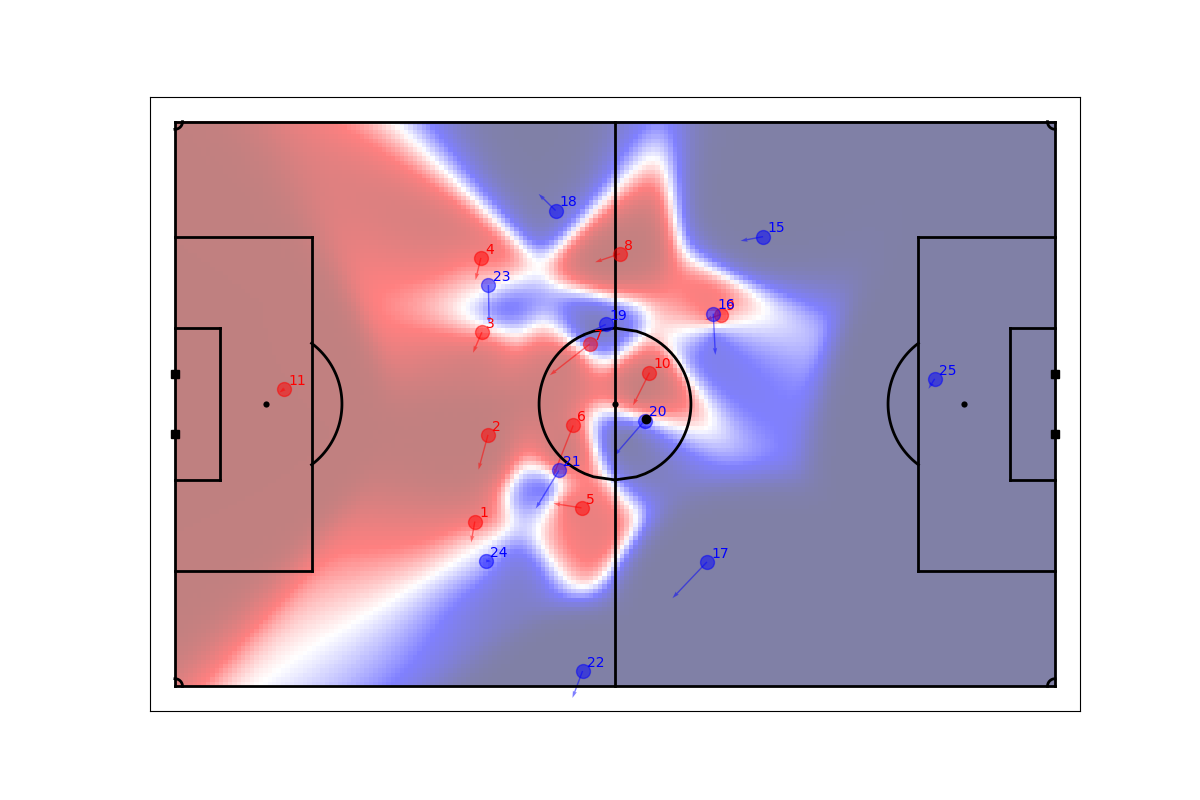
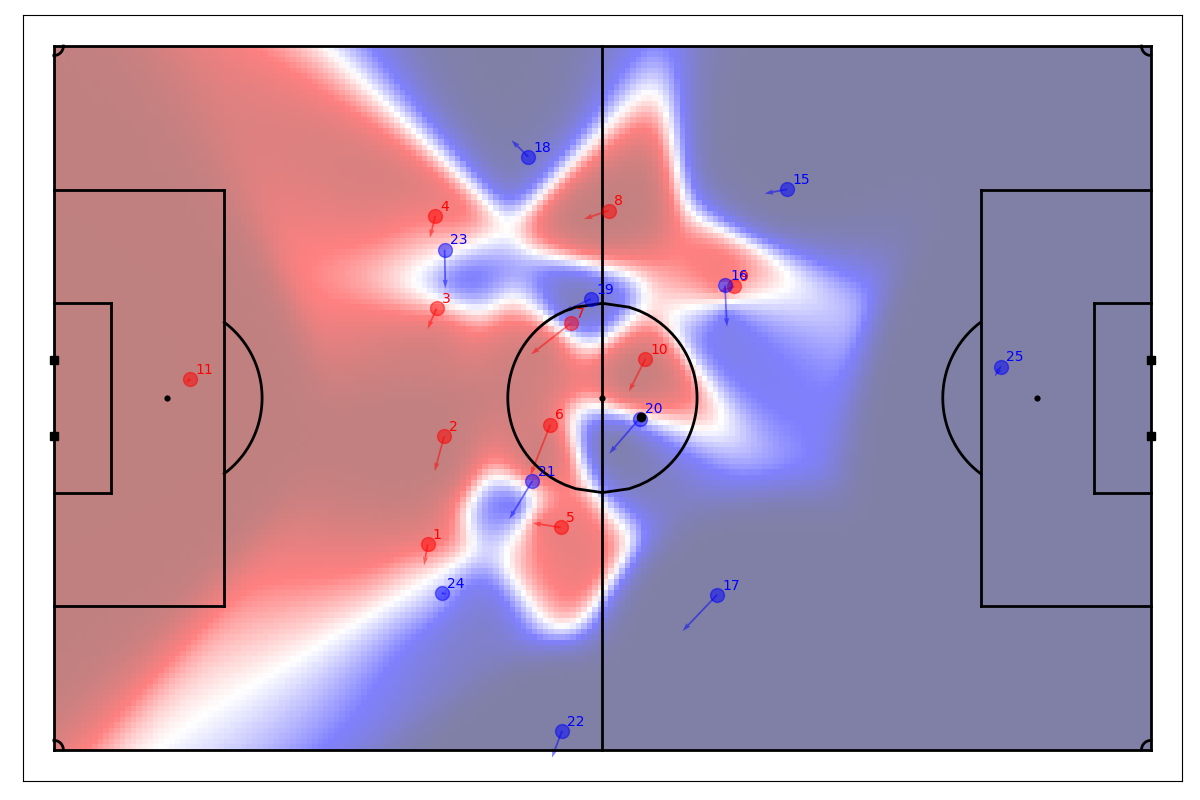
Updated readme and added tight_layout()

diff --git a/Main.py b/Main.py
@@ -49,6 +49,7 @@ fig,ax = vis.plot_pitch( field_color='white', field_dimen = field_dimen)
 vis.plot_frame( data_home.loc[frame], data_away.loc[frame] , figax=(fig,ax) , PlayerAlpha=0.5, include_player_velocities=include_player_velocities, annotate=True)
 cmap = 'seismic'
 ax.imshow( np.flipud(PPCFa) , extent=(-field_dimen[0]/2., field_dimen[0]/2., -field_dimen[1]/2., field_dimen[1]/2.) ,cmap=cmap,alpha=0.5 )
+plt.tight_layout()
 plt.savefig("Figures/PitchControlExample.png")
 if show == True:
     plt.show()

diff --git a/README.md b/README.md
@@ -31,7 +31,11 @@ pip3 install itertools
 
 3. ```frame```: Which frame the user wants to look at. 
 
+4. ```field_dimen```: Dimension of the field in yards. Default is ```(106,68)```.
+
 4. ```include_player_velocities```: Set to ```True``` to show the player velocities in the plot. 
+
+5. n_x_grid_cells: How many points along the length of the pitch to have in the grid. The corresponding number in the width dimension is determined by the ratio of dimensions in ```field_dimen```.
 
 5. ```show```: Set to ```True``` to show the plot. In all cases, the plot will be saved in the ```Figures/``` directory. 
 
